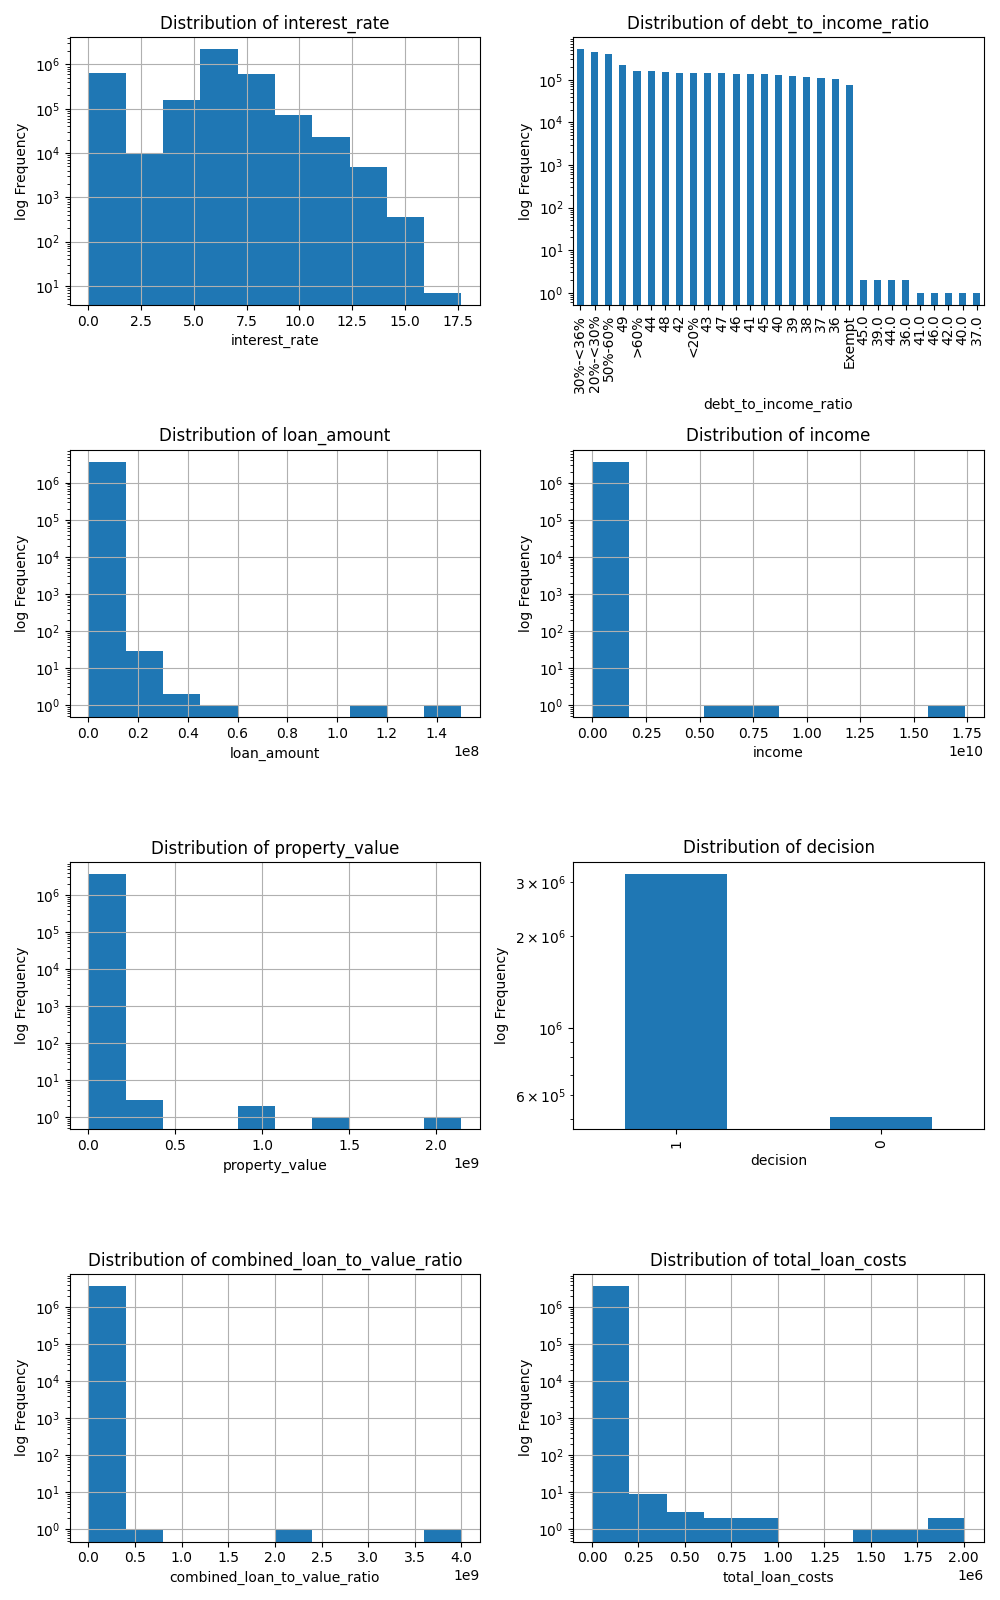
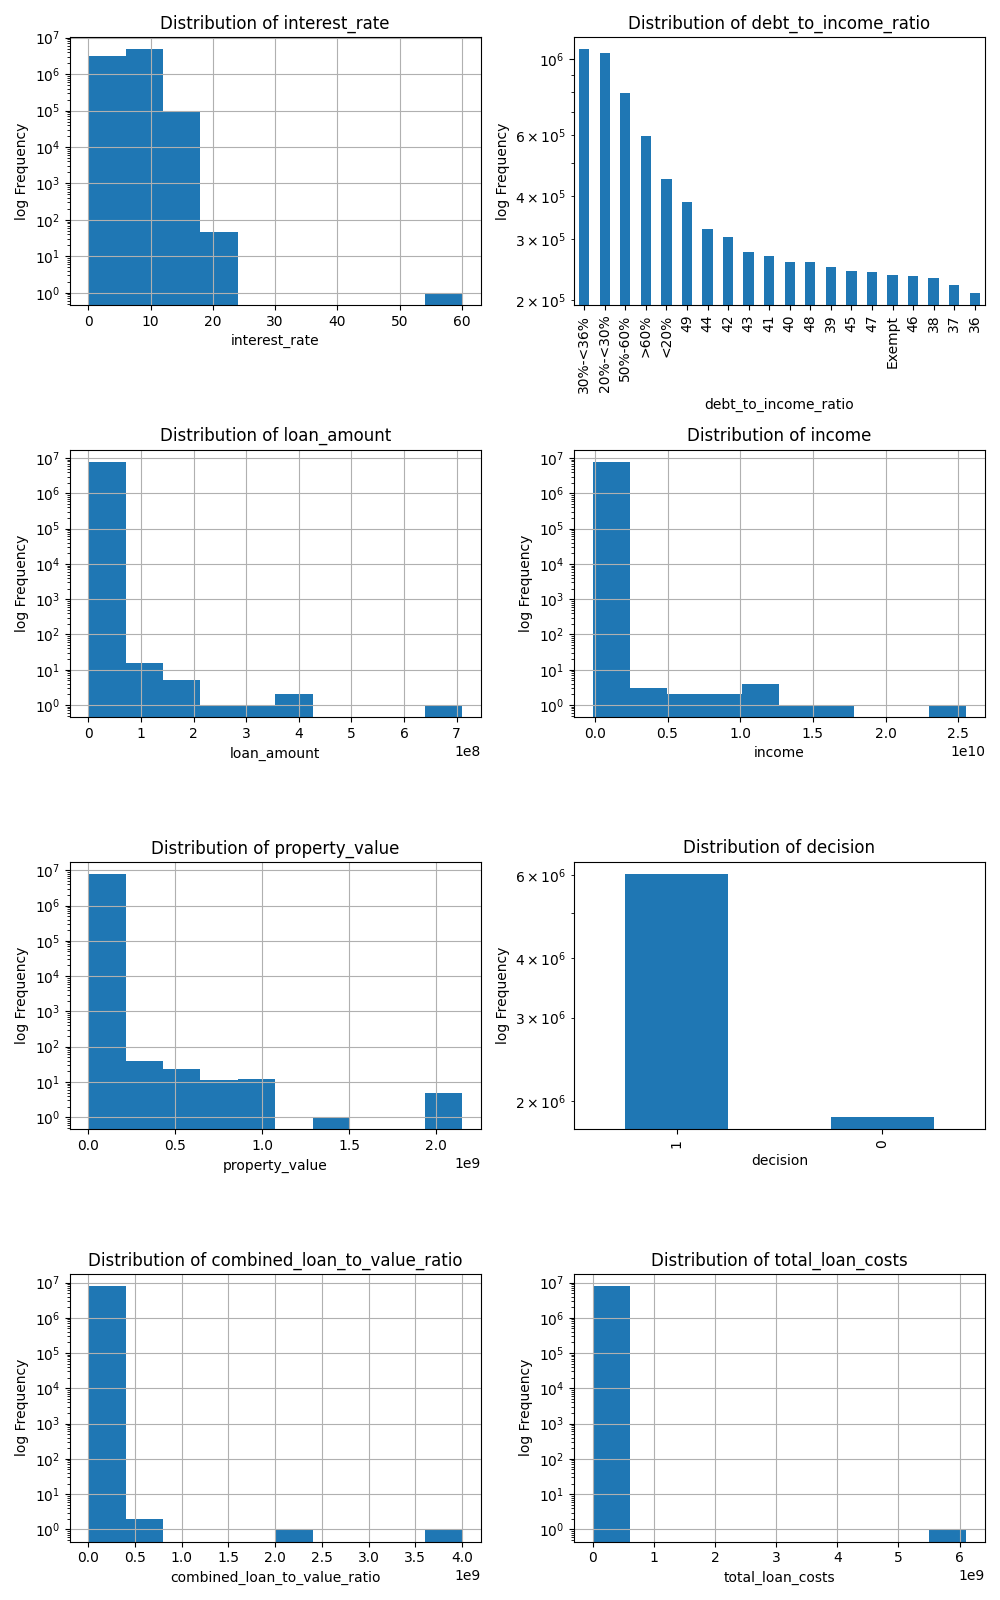
Add EDA notebook with distribution analysis and fix visualization issues
- Created 02_eda.py for exploratory data analysis
- Fixed histogram plotting for underwriting variables
- Added support for categorical debt_to_income_ratio visualization
- Updated distributions to show comparisons by approval decision
- Updated documentation and cleaning notebooks

diff --git a/notebooks/02_eda.py b/notebooks/02_eda.py
@@ -1,0 +1,128 @@
+## Exploratory Data Analysis
+## This notebook contains the exploratory data analysis for the loan approval project. 
+## Key objectives include understanding the distribution of key variables, identifying potential correlations with the target variable,
+## and detecting any anomalies or patterns that may inform the modeling process. 
+## Questions to be addressed include:
+## q.1 - What is the distribution of the target variable (loan approval decision)? and how does it vary for protected attributes (e.g., race, ethnicity, sex)?
+## q.2 - How are key underwritting variables (income, loan amount, property value, debt-to-income ratio) distributed?
+## q.3 - Are there any notable correlations between the underwriting variables and the approval rate?
+## q.4 - Are there any missing values or anomalies that need to be addressed before modeling?
+
+# Import necessary libraries
+#%%
+## Import necessary libraries
+import os
+import numpy as np
+import pandas as pd
+import matplotlib.pyplot as plt
+import seaborn as sns
+from xgboost import data
+import yaml
+import warnings
+
+warnings.filterwarnings('ignore')
+
+## set working directory
+if not os.getcwd().endswith('loan_approval'):
+    os.chdir('/Users/josiahgordor/Desktop/DSPortfolio/Projects/loan_approval') 
+    
+## set configuration variables using config.yaml 
+with open('config.yaml', 'r') as file:
+    config = yaml.safe_load(file)
+    
+    data_path = config['paths']
+    raw_data_path = data_path['data_raw']
+    processed_data_path = data_path['data_processed']
+    model_data_path = data_path['models']
+    reports_path = data_path['reports']
+    results_path = data_path['results']
+
+#%%
+# Load the cleaned data with target
+data = pd.read_csv(os.path.join(processed_data_path, 'cleaned_data_v3.csv'))
+data.info()
+
+# %%
+data = data.rename(columns={'lien status': 'lien_status', 
+                            'total units': 'total_units', 
+                            'construction method': 'construction_method'})
+
+
+# %%
+## q.0 - What is the size of the dataset?
+print(f"The dataset contains {data.shape[0]} rows and {data.shape[1]} columns.")
+
+## q.1 - What is the distribution of approval rate across the dataset? and how does it vary for protected attributes
+
+approval_rate_tbl = data['decision'].value_counts(normalize=True).sort_values(ascending=False).to_frame().reset_index()
+approval_rate_tbl.columns = ['decision', 'approval_rate']
+print(approval_rate_tbl)
+
+protected_attributes = ['applicant_ethnicity_1', 'applicant_sex', 'applicant_race_1','applicant_age']
+for attr in protected_attributes:
+    print(f"\nDistribution of approval rate by {attr}:")
+    approval_rate_by_attr = data.groupby(attr)['decision'] \
+    .value_counts(normalize=True).unstack().fillna(0)
+    print(approval_rate_by_attr)
+    
+# Plotting the distribution of approval rates by protected attributes
+figure, axes = plt.subplots(2, 2, figsize=(16, 12))
+for i, attr in enumerate(protected_attributes):
+    ax = axes[i//2, i%2]
+    approval_rate_by_attr = data.groupby(attr)['decision']\
+        .value_counts(normalize=True).unstack().fillna(0)
+    approval_rate_by_attr.plot(kind='bar', stacked=False, ax=ax, color=['skyblue', 'salmon'])
+    ax.set_title(f'Approval Rate by {attr}', fontsize=12, fontweight='bold')
+    ax.set_xlabel(attr, fontsize=10)
+    ax.set_ylabel(f'Approval Rate', fontsize=10)
+    
+    # Abbreviate long labels
+    labels = [label.get_text()[:20] + '...' if len(label.get_text()) > 20 else label.get_text() 
+              for label in ax.get_xticklabels()]
+    ax.set_xticklabels(labels, rotation=45, ha='right', fontsize=9)
+    ax.legend(title='Decision', loc='upper right', fontsize=9)
+    
+plt.tight_layout()
+plt.show()  
+
+# %%
+## q.2 - How are key underwritting variables (income, loan amount, property value, debt-to-income ratio, interest rate) distributed?
+underwriting_vars = ['income', 'loan_amount', 'property_value', 'debt_to_income_ratio', 'interest_rate']
+data[underwriting_vars].describe() 
+
+## Plotting the distribution of underwriting variables colored by approval decision
+fig, axes = plt.subplots(3, 2, figsize=(16, 12))
+for i, var in enumerate(underwriting_vars):
+    ax = axes[i//2, i%2]
+    if var != 'debt_to_income_ratio':
+        np.log1p(data[var]).plot(kind='hist', bins=30, ax=ax, color='skyblue', edgecolor='black', hue=data['decision'])
+        ax.set_ylabel('Approval Rate', fontsize=10)
+    else:
+        # debt_to_income_ratio is categorical, so use value_counts
+        data[var].value_counts(normalize=True).sort_index().plot(kind='bar', ax=ax, color='salmon', edgecolor='black', hue=data['decision'])
+        ax.set_ylabel('Approval Rate', fontsize=10)
+        ax.tick_params(axis='x', rotation=45)
+    ax.set_title(f'Distribution of {var}', fontsize=12, fontweight='bold')
+    ax.set_xlabel(var, fontsize=10)
+plt.tight_layout()
+plt.suptitle('Distribution of Underwriting Variables', fontsize=14, fontweight='bold')
+plt.show()
+# %%
+# q.3 - Are there any notable correlations between the underwriting variables and the approval rate?
+underwriting_vars = [var for var in underwriting_vars if var not in ['debt_to_income_ratio']]
+correlation_matrix = data[underwriting_vars + ['decision']].corr()
+print(correlation_matrix['decision'].sort_values(ascending=False))
+
+# Plotting the correlation matrix
+plt.figure(figsize=(10, 8))
+sns.heatmap(correlation_matrix, annot=True, cmap='coolwarm', fmt='.2f', linewidths=0.5)
+plt.title('Correlation Matrix of Underwriting Variables and Approval Decision', fontsize=14, fontweight='bold')
+plt.show()
+
+# %%
+# q.4 - Are there any missing values or anomalies that need to be addressed before modeling?
+
+missing_values = data.isnull().sum()
+print("Missing values in each column:")
+print(missing_values[missing_values > 0])   
+# %%

diff --git a/notebooks/01_data_cleaning.py b/notebooks/01_data_cleaning.py
@@ -42,9 +42,9 @@ data = data[(data['occupancy_type'] == 'Principal residence') & (data['loan_purp
 
 #%%
 # Fix data types
-data['county_code'] = data['county_code'].str.replace('.0', '', regex=False).str.zfill(4)
+data['county_code'] = data['county_code'].astype(str).replace('.0', '', regex=False).str.zfill(4)
 data['decision'] = data['decision'].astype('category')
-
+data['debt_to_income_ratio'] = data['debt_to_income_ratio'].str.replace('.0', '', regex=False)
 
 # Convert income to 000's
 data['income'] = data['income'] * 1000
@@ -64,12 +64,16 @@ data.drop_duplicates(inplace=True) # drop duplicate rows
 # Save the cleaned data after removing missing values and duplicates
 data.to_csv(os.path.join(processed_data_path, 'cleaned_data_v3.csv'), index=False)
 # %%
-
 # Perform basic statistical analysis
-statistics = data.describe()
-print("Basic statistical analysis:\n", statistics)
+statistics_num = data.describe(include='number')
+statistics_cat = data.describe(include=['category'])
+
+print("Basic statistical analysis (numerical):\n", statistics_num)
+print("\n")
+print("Basic statistical analysis (categorical):\n", statistics_cat)
 # %%
 # Visualize distributions of key variables using subplots
+
 key_variables = ['interest_rate', 'debt_to_income_ratio', 'loan_amount', 'income', 'property_value', 'decision', 'combined_loan_to_value_ratio', 'total_loan_costs']
 fig, axes = plt.subplots(4, 2, figsize=(10, 16))
 for i, var in enumerate(key_variables):
@@ -77,7 +81,7 @@ for i, var in enumerate(key_variables):
         if data[var].dtype.name == 'category' or data[var].dtype.name == 'object':
             data[var].value_counts().plot(kind='bar', ax=ax)
         else:
-            data[var].hist(ax=ax,)
+            data[var].hist(bins=50, ax=ax)
         ax.set_title(f'Distribution of {var}')
         ax.set_xlabel(var)
         ax.set_ylabel('log Frequency')

diff --git a/notebooks/00_data_exploration.py b/notebooks/00_data_exploration.py
@@ -42,7 +42,7 @@ cols_to_drop = cols_to_drop = [
     # Administrative/Identifiers
     'activity_year', 'lei', 'derived_msa_md', 'census_tract', 
     'conforming_loan_limit', 'submission_of_application', 'preapproval','aus_1','aus_2',
-    'aus_3', 'aus_4', 'aus_5',
+    'aus_3', 'aus_4', 'aus_5', 'total_units', 'construction_method' # Added total_units to the list
     
     # Sparse/Optional
     'applicant_credit_score_type', 'co_applicant_credit_score_type',
@@ -120,8 +120,6 @@ data.drop(columns=['action_taken'], inplace=True)
 data.to_csv(os.path.join(processed_data_path, 'cleaned_with_target.csv'), index=False)
 
 #%%
-data = pd.read_csv(os.path.join(processed_data_path, 'cleaned_with_target.csv'), nrows=2e5)
-
 ## generate data profile report
 profile = data_profiling.ProfileReport(data, title="Data Profile Report")
 profile.to_file(os.path.join(reports_path, 'data_profile_report.html'))

diff --git a/docs/literature_review.md b/docs/literature_review.md
@@ -38,7 +38,7 @@
 ### Performance Benchmarks
 
 - Industry standard AUC-ROC: 0.70-0.80
-- Precision typically prioritized over recall (minimize bad loans approved)
+- Precision typically prioritized over recall (minimize approving bad loans - False Positives)
 
 ---
 
@@ -53,7 +53,7 @@
 ### Fair Housing Act
 
 - **Coverage**: Prohibits discrimination in housing-related transactions
-- **Disparate Impact**: Neutral policies that disproportionately harm protected groups are illegal
+- **Disparate Impact**: Policies that disproportionately harm protected groups are illegal
 - **Testing**: 80% rule for disparate impact assessment
 
 ### Home Mortgage Disclosure Act (HMDA)

diff --git a/docs/ReadME.md b/docs/ReadME.md
@@ -104,7 +104,7 @@ By combining predictive accuracy with fairness guarantees, this system enables l
 - Feature hashing for high-cardinality categorical variables
 - One-hot encoding for nominal features
 - Normalization/standardization for numerical features
-- Fair representation learning to generate unbiased feature embeddings
+- Adversarial debiasing using autoencoders
 
 **Models**:
 
